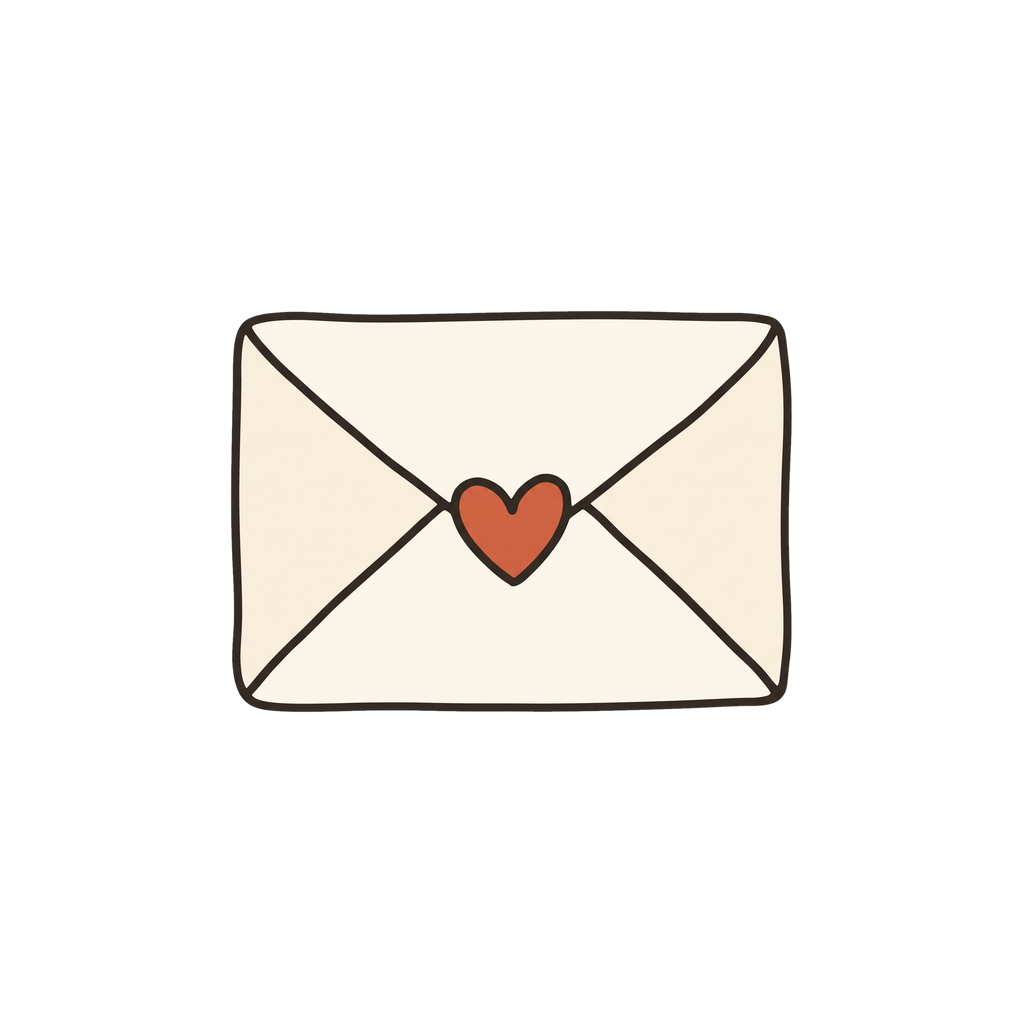
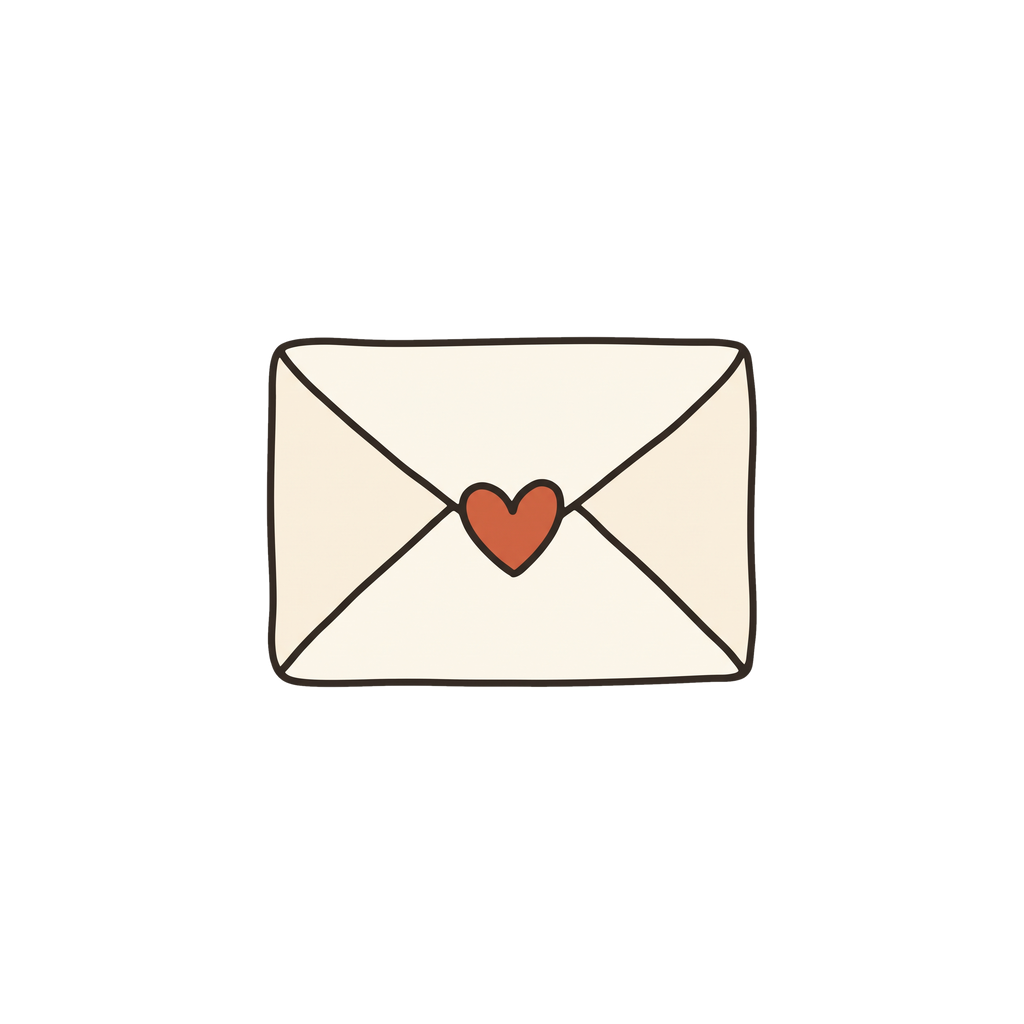
fix: 안드로이드 아이콘 마크 55% → 48% — 보이는 영역 기준으로 iOS보다 컸다
어댑티브 아이콘은 캔버스의 가운데 66%만 보여서 55%는 보이는 영역의 83%였다.
Material 키라인(가로 직사각형 52/108dp = 48%)으로 줄이고 모노크롬도 같이 맞춘다.

Claude-Session: https://claude.ai/code/session_016UadFVuRiVAZmPifRN3dX2

Changed region(s): [[0.2188, 0.2812, 0.7812, 0.7188]]

diff --git a/design/README.md b/design/README.md
@@ -126,10 +126,15 @@
 | --- | --- | --- |
 | `app/assets/images/brand-mark.png` (@2x, @3x) | 89×64 / 178×128 / 267×192 | 진입 화면 로고 |
 | `app/assets/images/icon.png` | 1024×1024 | 크림 배경, 마크 폭 62% |
-| `app/assets/images/android-icon-foreground.png` | 1024×1024 | 투명, 마크 폭 55% (안전영역 안쪽) |
-| `app/assets/images/android-icon-monochrome.png` | 1024×1024 | 크림 면을 뺀 잉크 선·하트만 남긴 라인아트 |
+| `app/assets/images/android-icon-foreground.png` | 1024×1024 | 투명, 마크 폭 **48%** (Material 키라인, 아래 참고) |
+| `app/assets/images/android-icon-monochrome.png` | 1024×1024 | 크림 면을 뺀 잉크 선·하트만 남긴 라인아트, 마크 폭 48% |
 | `app/assets/images/splash.png` / `splash-dark.png` | 600×392 (3x) | 마크 + 워드마크. 아래 '스플래시' 절의 스크립트로 생성 |
 | `web/public/brand-mark.png` | 213×152 | 헤더 39×28, 히어로 106×76으로 표시 |
+
+> **안드로이드 어댑티브 아이콘은 캔버스 108dp 중 가운데 72dp(66%)만 보입니다.** 마크 폭을 iOS처럼 캔버스 기준으로 생각하면
+> 실제로는 훨씬 크게 보입니다 — 55%로 두었을 때 보이는 영역 대비 83%라 iOS(61%)보다 눈에 띄게 컸습니다.
+> 2026-08-25부터 Material 키라인(가로 직사각형 52dp = 캔버스 48%, 보이는 영역의 72%)을 따릅니다.
+> iOS와 똑같은 비율(40%)로 맞추지 않는 이유: 안드로이드 아이콘은 물리적으로 더 작게 표시되고 원형 마스크로 모서리가 깎여, 같은 비율이면 오히려 작아 보입니다.
 
 > ⚠ 마크는 가로형(1.4:1)입니다. 정사각형으로 넣으면 위아래 여백이 생겨 작아 보입니다.
 > 표시 크기를 바꿀 때 `app/src/app/index.tsx`의 `styles.logo`와
